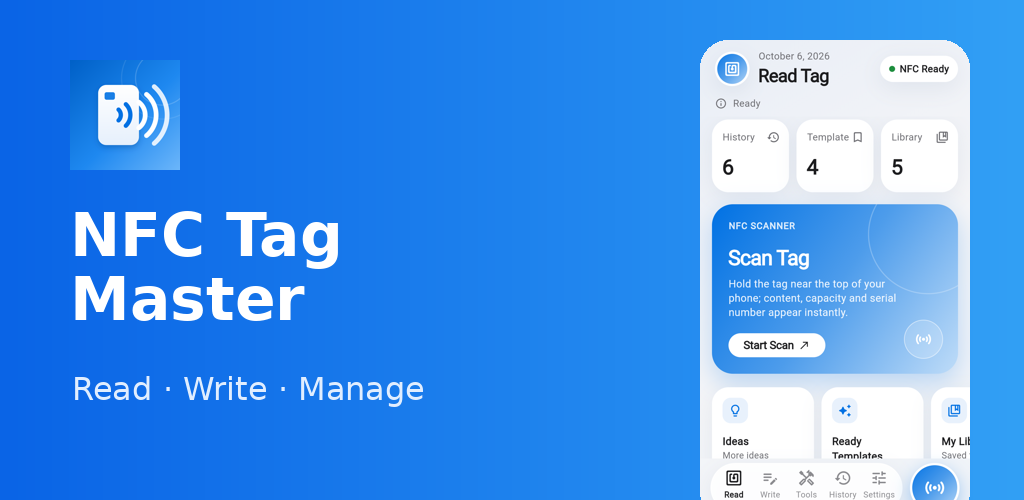
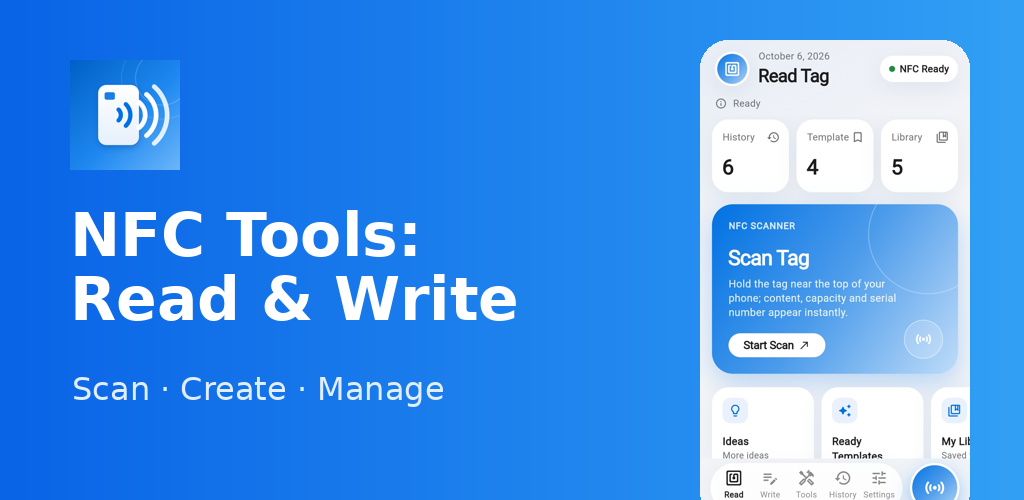
Update the Google Play guide, descriptions and feature graphic for the new name
Claude-Session: https://claude.ai/code/session_016R39jrukCVquzg1d3XPEKX

Changed region(s): [[0.0625, 0.42, 0.5, 0.66], [0.0625, 0.75, 0.4375, 0.81]]

diff --git a/docs/GOOGLE_PLAY_RELEASE.md b/docs/GOOGLE_PLAY_RELEASE.md
@@ -7,7 +7,7 @@ Derleme ve yükleme: `.github/workflows/play-release.yml`.
 
 1. https://play.google.com/console → geliştirici hesabı aç (tek seferlik 25 $, kimlik doğrulama birkaç gün sürebilir).
 2. **Uygulama oluştur**
-   - Ad: NFC Etiket Yöneticisi
+   - Ad: NFC Tools: Read & Write
    - Varsayılan dil: Türkçe
    - Tür: Uygulama, ücretsiz
 3. **GitHub gizli anahtarları** (Settings → Secrets and variables → Actions):
@@ -32,8 +32,8 @@ Yükleme anahtarı kaybolursa Play Console → Uygulama bütünlüğü → "Yük
 
 | Alan | Türkçe | English |
 |---|---|---|
-| Ad (≤30) | NFC Etiket Yöneticisi | NFC Tag Master |
-| Kısa açıklama (≤80) | NFC etiketlerini okuyun, yazın ve yönetin. Hesap yok, reklam yok. | Read, write and manage NFC tags. No account, no ads, no tracking. |
+| Ad (≤30) | NFC Tools: Read & Write | NFC Tools: Read & Write |
+| Kısa açıklama (≤80) | NFC etiketlerini okuyun, yazın ve yönetin. Hesap yok, reklam yok. | Scan and write NFC tags, create smart templates, and organize your tag library. |
 
 Görseller (`docs/store_screenshots/google_play/`):
 
@@ -44,43 +44,49 @@ Görseller (`docs/store_screenshots/google_play/`):
 **Tam açıklama (Türkçe):**
 
 ```
-NFC etiketlerini okuyun, yazın ve yönetin.
+NFC etiketlerinizle daha fazlasını yapın. Her dokunuşu işe yarar hale getirin.
+
+NFC Tools: Read & Write; okuma, yazma, düzenleme ve günlük otomasyonu tek bir uygulamada toplar.
 
 • OKU: İçerik, çip türü (NTAG213/215/216), kapasite, kilit ve şifre durumu
 • ETİKET SAĞLIK TESTİ: 0–100 puan ve yapılacaklar
 • YAZ: Web, metin, telefon, SMS, e-posta, konum, Wi-Fi, kartvizit, takvim, uygulama bağlantıları
-• HAZIR ŞABLONLAR: Misafir Wi-Fi, Google yorum, menü, evcil hayvan künyesi, acil durum kartı ve dahası
-• DOKUNUNCA NE OLUR: Telefonların etikete ne yapacağını yazmadan önce görün
+• 27 HAZIR ŞABLON: Misafir Wi-Fi, Google yorum, menü, evcil hayvan künyesi, acil durum kartı ve dahası
+• DOKUNUNCA NE OLUR: Telefonun etikete ne yapacağını yazmadan önce görün
 • TOPLU YAZMA: Seri numara, CSV'den her satır bir etikete, etiket kopyalama
-• ARAÇLAR: Etiket raporu, karşılaştırma, temizleme, kilitleme, şifre, bellek dökümü, QR tarayıcı
+• ARAÇLAR: Etiket raporu, karşılaştırma, temizleme, kilitleme, şifre, bellek dökümü, QR ve barkod tarayıcı
 • KÜTÜPHANE: Etiketlerinize isim, fotoğraf, konum ve etiket ekleyin; harita görünümü
 • KAYIT DEFTERLERİ: Yoklama, mesai, ilaç, alışkanlık, ev işleri; hatırlatmalarla
 • HAZİNE AVI: İpuçlarını etiketlere yazın, oyuncular sırayla bulsun
 • GÜNLÜK ARAÇLAR: Birim çevirici, hesap bölüşme, şifre üretici, zar ve kura, sayaç
 • 14 dil ve koyu mod
 
-Gizlilik: Hesap, sunucu, reklam veya takip yok. Her şey cihazınızda.
+Gizlilik: Hesap, reklam veya takip yok. Etiket kütüphaneniz varsayılan olarak cihazınızda saklanır.
+NFC desteği ve her işlem telefonunuza ve etiket donanımına bağlıdır. Etiketi kalıcı olarak kilitlemek geri alınamaz.
 ```
 
 **Full description (English):**
 
 ```
-Read, write and manage NFC tags.
+Your NFC tags can do more. Make every tap count.
+
+NFC Tools: Read & Write brings NFC reading, writing, organization and everyday automation together in one easy-to-use app.
 
 • READ: content, chip type (NTAG213/215/216), capacity, lock and password status
-• TAG HEALTH CHECK: a 0–100 score with what to fix
-• WRITE: web links, text, phone, SMS, email, location, Wi-Fi, contact cards, calendar events, app links
-• READY-MADE TEMPLATES: guest Wi-Fi, Google review, menu, pet tag, emergency card and more
-• TAP PREVIEW: see what phones will do with the tag before you write it
-• BATCH WRITING: serial numbers, one CSV row per tag, tag cloning
-• TOOLS: tag report, compare, erase, lock, password, memory dump, QR scanner
-• LIBRARY: names, photos, locations and labels for your tags, with a map
+• TAG HEALTH CHECK: a 0–100 score with plain-language advice
+• WRITE: websites, text, phone, SMS, email, locations, Wi-Fi, contact cards, calendar events, app links
+• 27 READY-MADE TEMPLATES: guest Wi-Fi, review links, menus, pet tags, emergency cards and more
+• TAP PREVIEW: see how your phone will handle a tag before you write it
+• BATCH WRITING: serial numbers, one CSV row per tag, NDEF copying
+• TOOLS: erase, format, compare, memory view, supported password and lock operations, QR and barcode scanner
+• LIBRARY: names, notes, labels, photos and locations for your tags, with a map
 • LOGBOOKS: attendance, work hours, medication, habits, chores, with reminders
-• TREASURE HUNT: write clues to tags and let players find them in order
+• TREASURE HUNT: write ordered clues to tags and let players find them against a timer
 • EVERYDAY TOOLS: unit converter, bill splitter, password generator, dice and draws, tally counter
-• 14 languages and dark mode
+• Dark mode and 14 languages
 
-Privacy: no account, server, ads or tracking. Everything stays on your device.
+Privacy: no account, ads or tracking. Your tag library is stored on your device by default.
+NFC availability and individual operations depend on your phone and tag hardware. Permanently locking a tag cannot be undone. Copying NDEF data does not duplicate payment cards, access credentials or encrypted sectors.
 ```
 
 ## 4. Uygulama içeriği formları
